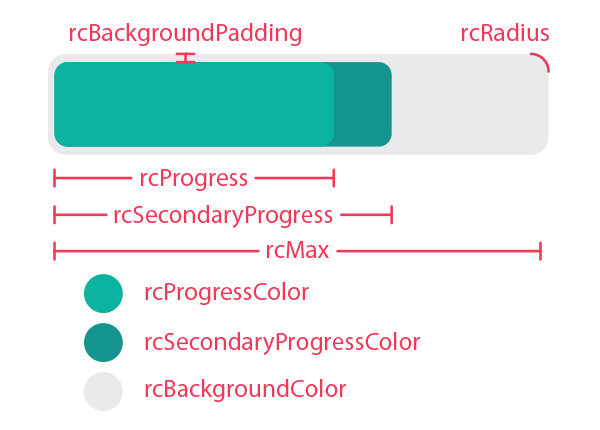
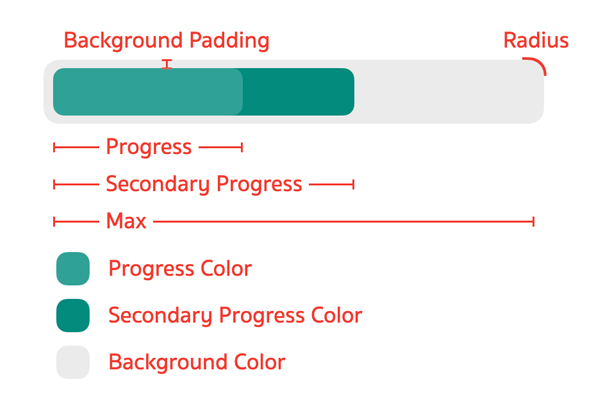
Re-illustrated the image in README

diff --git a/README.md b/README.md
@@ -17,12 +17,12 @@ What's new in version 2.0
 
 Demo
 ===========================
-[Round Corner Progress Bar Demo (Google Play)](https://play.google.com/store/apps/details?id=com.akexorcist.roundcornerprogressbar)
+[![Round Corner Progress Bar Demo (Google Play)](https://play.google.com/intl/en_us/badges/images/badge_new.png)](https://play.google.com/store/apps/details?id=com.akexorcist.roundcornerprogressbar)
 
-[![get it on google play](https://play.google.com/intl/en_us/badges/images/badge_new.png)](https://play.google.com/store/apps/details?id=com.akexorcist.roundcornerprogressbar)
-
-Round Corner Progress Bar
+Progress Bar Type
 ===============================
+Round Corner Progress Bar
+-------------------------------
 
 A simple round corner progress bar that can change a color of progress and background and a corner radius in dp unit (Very Recommended)
 
@@ -30,12 +30,11 @@ A simple round corner progress bar that can change a color of progress and backg
 
 
 Icon Round Corner Progress Bar
-===============================
+-------------------------------
 
 A round corner progress bar with a changeable icon on the left of progress bar
 
 ![Icon Round Corner Progress Bar Sample](https://raw.githubusercontent.com/akexorcist/Android-RoundCornerProgressBar/master/image/screenshot_01.png)
-
 
 
 Installation
@@ -74,6 +73,8 @@ xmlns:app="http://schemas.android.com/apk/res-auto"
 
 Include this progress bar library in your layout
 
+RoundCornerProgressBar
+-------------------------------'
 ```xml
 <com.akexorcist.roundcornerprogressbar.RoundCornerProgressBar
         android:layout_width="dimension"
@@ -91,9 +92,9 @@ Include this progress bar library in your layout
 
 ![Round Corner Progress Bar Usage](https://raw.githubusercontent.com/akexorcist/Android-RoundCornerProgressBar/master/image/usage_01.jpg)
 
-![Round Corner Progress Bar Usage](https://raw.githubusercontent.com/akexorcist/Android-RoundCornerProgressBar/master/image/usage_06.jpg)
 
-
+IconRoundCornerProgressBar
+-------------------------------'
 ```xml
 <com.akexorcist.roundcornerprogressbar.IconRoundCornerProgressBar
         android:layout_width="dimension"
@@ -125,10 +126,11 @@ Include this progress bar library in your layout
 
 ![Icon Round Corner Progress Bar Usage](https://raw.githubusercontent.com/akexorcist/Android-RoundCornerProgressBar/master/image/usage_04.jpg)
 
+Reversing
+-------------------------------'
 ![Icon Round Corner Progress Bar Usage](https://raw.githubusercontent.com/akexorcist/Android-RoundCornerProgressBar/master/image/usage_05.jpg)
 
-
-**Recommended how to set progress bar height**
+**Recommendation to set progress bar height**
 * ```android:layout_height``` for RoundCornerProgressBar height 
 * ```android:iconSize``` for IconRoundCornerProgressBar height
 
@@ -193,27 +195,17 @@ void setOnIconClickListener(OnIconClickListener listener)
 Example
 ===========================
 ```xml
-<LinearLayout xmlns:android="http://schemas.android.com/apk/res/android"
-    xmlns:app="http://schemas.android.com/apk/res-auto"
-    android:layout_height="match_parent" 
-    android:layout_width="match_parent"
-    android:orientation="vertical" >
+<com.akexorcist.roundcornerprogressbar.RoundCornerProgressBar
+    android:layout_width="320dp" 
+    android:layout_height="40dp" 
+    app:rcBackgroundPadding="5dp" />
 
-    <com.akexorcist.roundcornerprogressbar.RoundCornerProgressBar
-        android:id="@+id/progress_1"
-        android:layout_height="320dp" 
-        android:layout_width="40dp" 
-        app:rcBackgroundPadding="5dp" />
-
-    <com.akexorcist.roundcornerprogressbar.IconRoundCornerProgressBar
-        android:id="@+id/progress_2"
-        android:layout_height="320dp" 
-        android:layout_width="wrap_content"
-        app:rcBackgroundPadding="10dp"
-        app:rcIconSize="50dp" 
-        app:rcIconPadding="5dp" />
-
-</LinearLayout>
+<com.akexorcist.roundcornerprogressbar.IconRoundCornerProgressBar
+    android:layout_width="320dp" 
+    android:layout_height="wrap_content"
+    app:rcBackgroundPadding="10dp"
+    app:rcIconSize="50dp" 
+    app:rcIconPadding="5dp" />
 ```
 ![Icon Round Corner Progress Bar Usage](https://raw.githubusercontent.com/akexorcist/Android-RoundCornerProgressBar/master/image/example_01.jpg)
 
@@ -284,10 +276,9 @@ int getTextProgressMargin()
 void setTextProgressMargin(int margin)
 ``` 
 
-
 Licence
 ===========================
-Copyright 2015 Akexorcist
+Copyright 2020 Akexorcist
 
 Licensed under the Apache License, Version 2.0 (the "License"); you may not use this work except in compliance with the License. You may obtain a copy of the License in the LICENSE file, or at:
 
